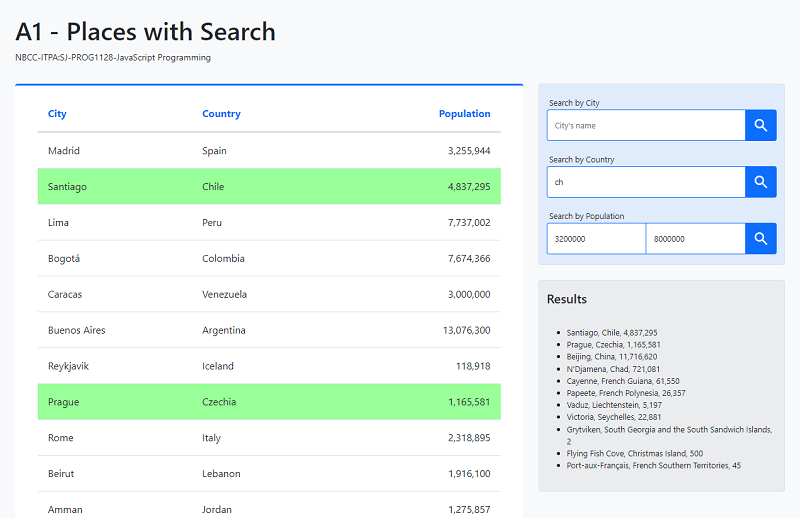
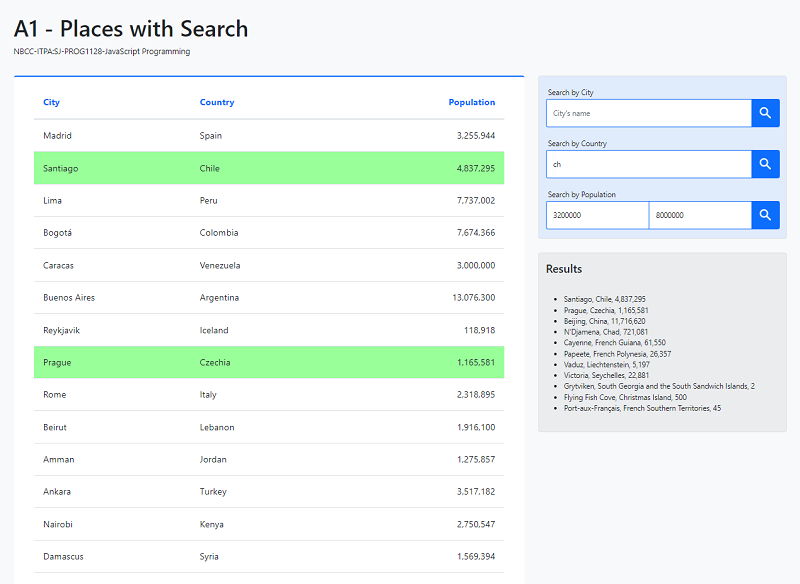
added new projects, included description container

diff --git a/index.html b/index.html
@@ -30,14 +30,34 @@
             <div class="section">
                 <div class="section-title">Portfolio</div>
                 <div>
-                    You can see some of the things I have worked on during my program at NBCC and over my Github 
-                    (some repositories may be closed).
+                    You can see some of the things I have worked on during my program at <em data-descr="New Brunswick Community College">NBCC</em> and over my Github. 
+                    <br>some repositories may be closed due the college recommendations - if you want to see it, please give me a heads up!
                 </div>
 
+                <!-- Responsive web design #Project -->
                 <div class="window">
                     <div class="window-header">
                         <div>
-                            <a href="https://github.com/leonardojdas/places-with-search"><img class="github-img" src="/images/github-logo.png"></a>
+                            <a href="https://github.com/leonardojdas/rwd-final-project"><img class="github-img" src="portfolio/images/github-logo.png"></a>
+                        </div>
+                        <div class="window-header-title">Responsive Web Design Project</div>
+                        <div class="window-header-buttons">
+                            <div>
+                                <div></div>
+                                <div></div>
+                                <div></div>
+                            </div>
+                        </div>
+                    </div>
+                    <div class="window-content rwd-project"></div>
+                    <div class="window-description">Simple website using <em>HTML</em> and <em>Bootstrap</em>.</div>
+                </div>
+
+                <!-- JS #A1 -->
+                <div class="window">
+                    <div class="window-header">
+                        <div>
+                            <a href="https://github.com/leonardojdas/places-with-search"><img class="github-img" src="portfolio/images/github-logo.png"></a>
                         </div>
                         <div class="window-header-title">Javascript Assignment #1</div>
                         <div class="window-header-buttons">
@@ -49,7 +69,85 @@
                         </div>
                     </div>
                     <div class="window-content js-a1"></div>
+                    <div class="window-description">Basic search using <em>javascript</em>, <em>CSS</em> and static data.</div>
                 </div>
+
+                <!-- JS #A2 -->
+                <div class="window">
+                    <div class="window-header">
+                        <div>
+                            <a href="https://github.com/leonardojdas/programming-exercises-and-tabs"><img class="github-img" src="portfolio/images/github-logo.png"></a>
+                        </div>
+                        <div class="window-header-title">Javascript Assignment #2</div>
+                        <div class="window-header-buttons">
+                            <div>
+                                <div></div>
+                                <div></div>
+                                <div></div>
+                            </div>
+                        </div>
+                    </div>
+                    <div class="window-content js-a2"></div>
+                    <div class="window-description">Applying basics <em>javascript</em> concepts of operators, conditionals, and loops using <em>CSS</em>.</div>
+                </div>
+
+                <!-- JS #A3 -->
+                <div class="window">
+                    <div class="window-header">
+                        <div>
+                            <a href="https://github.com/leonardojdas/places-with-search"><img class="github-img" src="portfolio/images/github-logo.png"></a>
+                        </div>
+                        <div class="window-header-title">Javascript Assignment #3</div>
+                        <div class="window-header-buttons">
+                            <div>
+                                <div></div>
+                                <div></div>
+                                <div></div>
+                            </div>
+                        </div>
+                    </div>
+                    <div class="window-content js-a3"></div>
+                    <div class="window-description">Basic search using <em>javascript</em> and static data.</div>
+                </div>
+
+                <!-- JS #A4 -->
+                <div class="window">
+                    <div class="window-header">
+                        <div>
+                            <a href="https://github.com/leonardojdas/places-with-search"><img class="github-img" src="portfolio/images/github-logo.png"></a>
+                        </div>
+                        <div class="window-header-title">Javascript Assignment #4</div>
+                        <div class="window-header-buttons">
+                            <div>
+                                <div></div>
+                                <div></div>
+                                <div></div>
+                            </div>
+                        </div>
+                    </div>
+                    <div class="window-content js-a4"></div>
+                    <div class="window-description">Basic search using <em>javascript</em> and static data.</div>
+                </div>
+
+                <!-- JS #A5 -->
+                <div class="window">
+                    <div class="window-header">
+                        <div>
+                            <a href="https://github.com/leonardojdas/places-with-search"><img class="github-img" src="portfolio/images/github-logo.png"></a>
+                        </div>
+                        <div class="window-header-title">Javascript Assignment #5</div>
+                        <div class="window-header-buttons">
+                            <div>
+                                <div></div>
+                                <div></div>
+                                <div></div>
+                            </div>
+                        </div>
+                    </div>
+                    <div class="window-content js-a5"></div>
+                    <div class="window-description">Basic search using <em>javascript</em> and static data.</div>
+                </div>
+
             </div>
 
             <div class="section">

diff --git a/style/style.css b/style/style.css
@@ -34,6 +34,7 @@ h3{
 
 em{
     font-style: normal;
+    color: #ffffff;
     /* color: #ff4d5a; */
     /* background-color: #ff4d5a; */
     /* background-color: rgba(255, 77, 90, 0.3); */
@@ -41,6 +42,30 @@ em{
     padding-left: 3px;
     padding-right: 3px;
     /* text-decoration: underline */
+}
+
+em[data-descr] {
+    position: relative;
+    /* text-decoration: underline; */
+    /* color: #00f; */
+    cursor: help;
+  }
+
+em[data-descr]:hover::after,
+em[data-descr]:focus::after {
+  content: attr(data-descr);
+  position: absolute;
+  left: 0;
+  top: 24px;
+  width:max-content;
+  /* min-width: 200px; */
+  /* border: 1px #aaaaaa solid; */
+  border-radius: 10px;
+  background-color: #ffffcc;
+  padding: 12px;
+  color: #000000;
+  font-size: 14px;
+  z-index: 1;
 }
 
 #container{
@@ -119,7 +144,7 @@ em{
 
 .window{
     margin-top: 50px;
-    border: solid 1px rgba(222,222,222,0.3);
+    border: solid 1px rgba(222,222,222,0.2);
     border-radius: 8px;
     width: 800px;
     background-color: rgba(222,222,222,0.15);
@@ -127,7 +152,7 @@ em{
 }
 
 .window-header{
-    border-bottom: solid 1px rgba(222,222,222,0.3);
+    border-bottom: solid 1px rgba(222,222,222,0.2);
     padding: 20px;
     display: grid;
     grid-template-columns: 190px 380px 190px;
@@ -147,22 +172,12 @@ em{
     /* background-color: #020b17; */
     background-color: rgba(2, 11, 23,0.5);
     width: 350px;
-    padding: 10px;
-    padding-left: 10px;
+    padding: 11px;
+    padding-left: 11px;
     text-align: center;
     border-radius: 8px;
     border: solid 1px rgba(222,222,222,0.3);
     font-size: 0.9em;
-}
-
-.window-content{
-    height: 520px;
-    border-bottom-left-radius: 8px;
-    border-bottom-right-radius: 8px;
-}
-
-.js-a1{
-    background-image: url('../images/js-a1-thumb.png');
 }
 
 .window-header-buttons{
@@ -192,3 +207,40 @@ em{
     background-color: green;
 }
 
+.window-content{
+    height: 520px;
+    /* border-bottom-left-radius: 8px; */
+    /* border-bottom-right-radius: 8px; */
+}
+
+.rwd-project{
+    background-image: url('../images/rwb-project-thumb.png');
+}
+
+.js-a1{
+    background-image: url('../images/js-a1-thumb.png');
+}
+
+.js-a2{
+    background-image: url('../images/js-a2-thumb.png');
+}
+
+.js-a3{
+    background-image: url('../images/js-a3-thumb.png');
+}
+
+.js-a4{
+    background-image: url('../images/js-a4-thumb.png');
+}
+
+.js-a5{
+    background-image: url('../images/js-a5-thumb.png');
+}
+
+
+.window-description{
+    padding: 20px;
+    text-align: left;
+    font-size: 0.9em;
+    color: rgba(222,222,222,0.7);
+}
